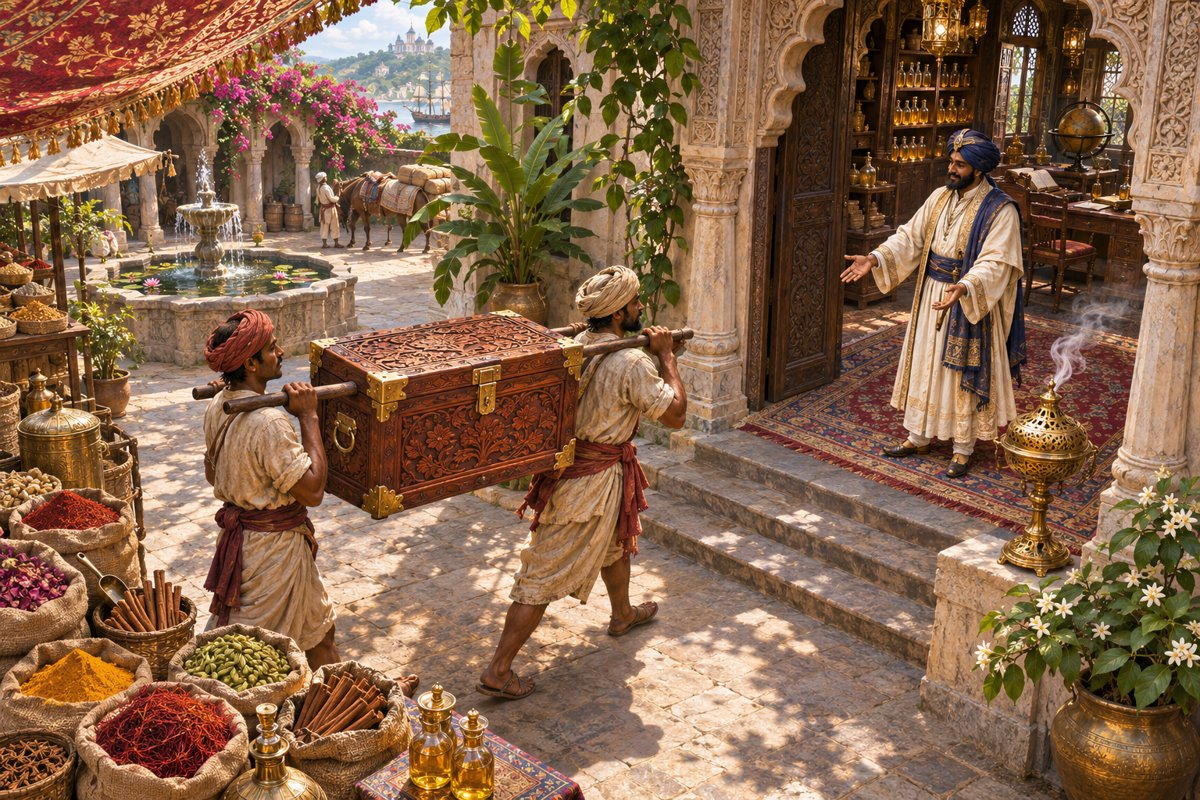
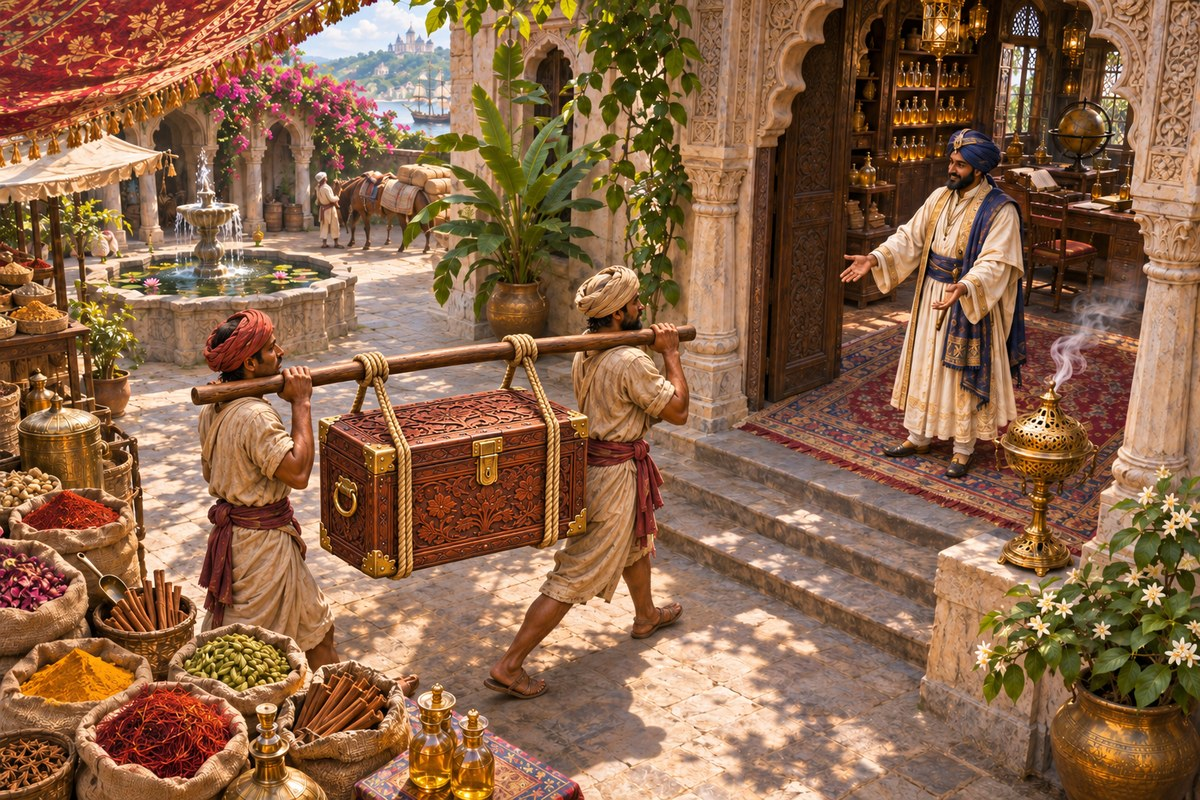
art: suspend Safranstraße delivery chest with credible rope slings

diff --git a/PENDING_UPDATE.md b/PENDING_UPDATE.md
@@ -71,3 +71,7 @@ Kundendetails zeigen drei normale Produkte plus Edelware nebeneinander mit beste
 ## Gesammelt: Handelssitz im Handelsimperium
 
 Neue obere Karte mit prächtigem Säulenbau und einheitlichen Kisten-Lorbeer-Siegeln auf burgunderroten Bannern; Bild und kompakter Punkteteil verbunden. Titel „Entwicklung“ entfernt. Tatsächlicher gemeinsamer Ausbaupunktestand, permanente Basismaxima und bestehende manuelle Verteilung bleiben maßgeblich; null Punkte erzeugen keinen Verteilbutton. Hero maximal 210 logische Pixel, unterer Imperiumsausbau unverändert. Typprüfung und zwölf gezielte Komponententests erfolgreich; Produktions-JPEG visuell/dekodiert und Upload-SHA geprüft. Kein neuer Geräte-/Exporttest. Noch nicht veröffentlicht. [Details](docs/ui/point-allocation.md).
+
+## Gesammelt: Safranstraßen-Tragekiste korrigiert
+
+Das fünfte Geschichtsbild (80–99 %) ist ersetzt: Die geschlossene, verzierte Kiste hängt mit erkennbarem Abstand unter einer durchgehenden Schulterstange. Zwei kräftige Seilschlingen um und unter der Kiste tragen die Last; Holzstangen durchdringen weder Kistenkörper noch Beschläge. Gewürzhof, Essenzflaschen und empfangender Händler bleiben erhalten. Motiv und Tragemechanik visuell geprüft, Produktions-JPEG 1200 × 800 vollständig dekodiert und Git-Blob-SHA beim Upload abgeglichen. Kein neuer App-Export oder Gerätetest. Noch nicht veröffentlicht.
